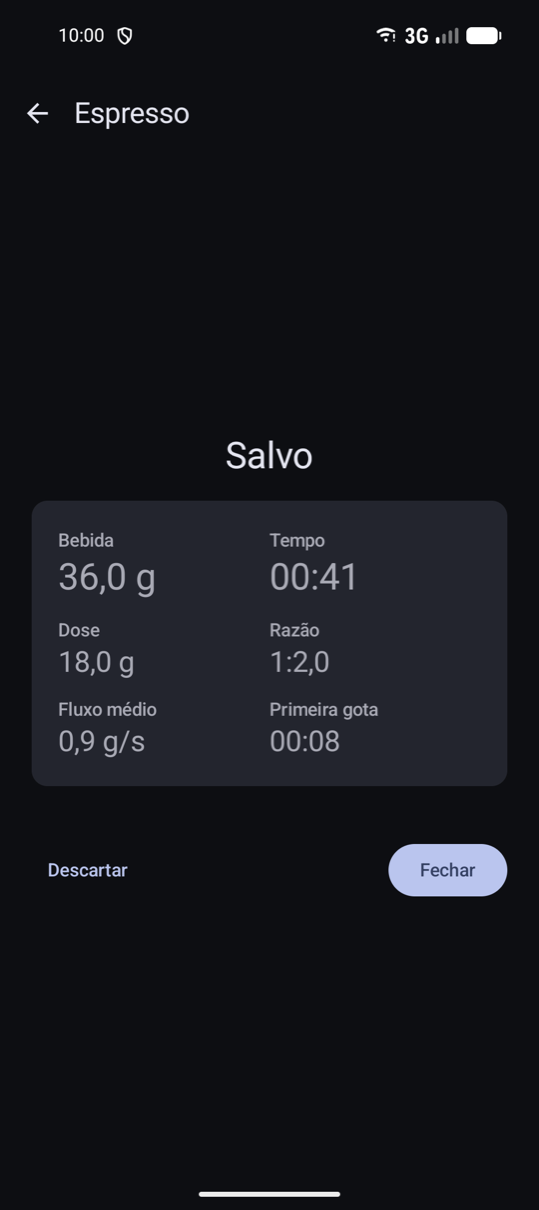
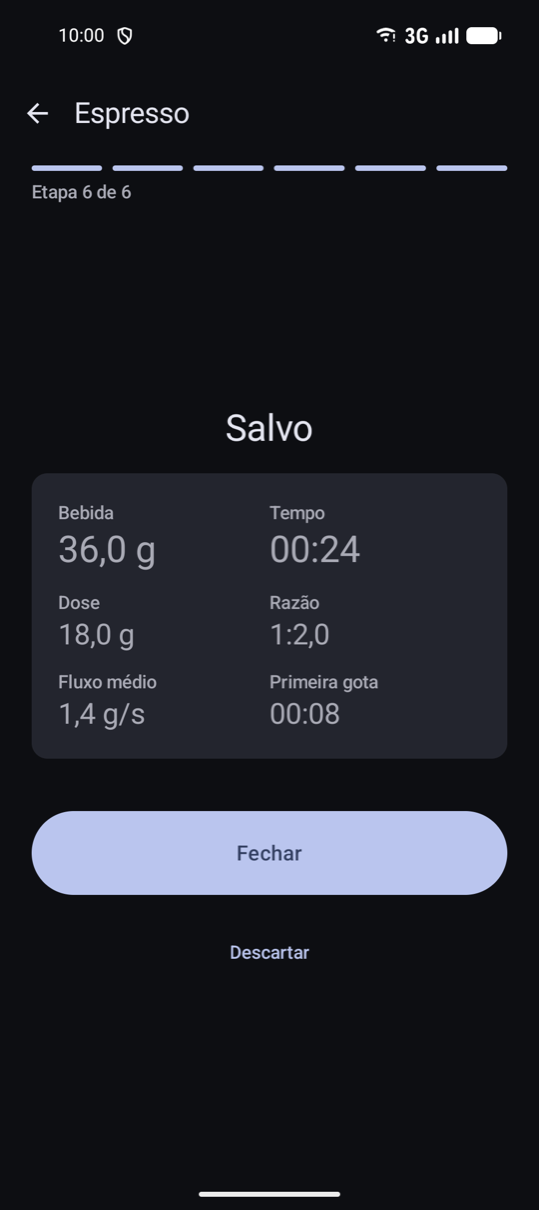
Brew screen: guide one step at a time with animations and bigger buttons
A step indicator like the onboarding's, each step's instruction sliding in with a small looping picture (cup coming
down, tare LED, drops or stream), full-width 64 dp buttons on the brew screen and taller mode buttons on Home.

diff --git a/app/src/main/java/io/github/mateuxlucax/caparao/ui/brew/BrewGuide.kt b/app/src/main/java/io/github/mateuxlucax/caparao/ui/brew/BrewGuide.kt
@@ -1,0 +1,186 @@
+package io.github.mateuxlucax.caparao.ui.brew
+
+import android.provider.Settings
+import androidx.annotation.StringRes
+import androidx.compose.animation.AnimatedContent
+import androidx.compose.animation.animateColorAsState
+import androidx.compose.animation.core.LinearEasing
+import androidx.compose.animation.core.animateFloat
+import androidx.compose.animation.core.infiniteRepeatable
+import androidx.compose.animation.core.rememberInfiniteTransition
+import androidx.compose.animation.core.tween
+import androidx.compose.animation.fadeIn
+import androidx.compose.animation.fadeOut
+import androidx.compose.animation.slideInHorizontally
+import androidx.compose.animation.slideOutHorizontally
+import androidx.compose.animation.togetherWith
+import androidx.compose.foundation.Canvas
+import androidx.compose.foundation.background
+import androidx.compose.foundation.layout.Arrangement
+import androidx.compose.foundation.layout.Box
+import androidx.compose.foundation.layout.Column
+import androidx.compose.foundation.layout.Row
+import androidx.compose.foundation.layout.fillMaxWidth
+import androidx.compose.foundation.layout.height
+import androidx.compose.foundation.layout.size
+import androidx.compose.foundation.shape.CircleShape
+import androidx.compose.material3.MaterialTheme
+import androidx.compose.material3.Text
+import androidx.compose.runtime.Composable
+import androidx.compose.runtime.getValue
+import androidx.compose.runtime.remember
+import androidx.compose.ui.Alignment
+import androidx.compose.ui.Modifier
+import androidx.compose.ui.draw.clip
+import androidx.compose.ui.geometry.CornerRadius
+import androidx.compose.ui.geometry.Offset
+import androidx.compose.ui.geometry.Size
+import androidx.compose.ui.graphics.Path
+import androidx.compose.ui.graphics.drawscope.DrawScope
+import androidx.compose.ui.graphics.drawscope.Stroke
+import androidx.compose.ui.graphics.drawscope.scale
+import androidx.compose.ui.platform.LocalContext
+import androidx.compose.ui.res.stringResource
+import androidx.compose.ui.text.style.TextAlign
+import androidx.compose.ui.unit.dp
+import io.github.mateuxlucax.caparao.R
+import io.github.mateuxlucax.caparao.brew.BrewPhase
+import io.github.mateuxlucax.caparao.model.BrewMode
+import kotlin.math.PI
+import kotlin.math.sin
+
+/** The steps the brew screen walks through, one at a time like the onboarding. */
+enum class GuideStage(@StringRes val title: Int, @StringRes val text: Int?) {
+    DOSE(R.string.dose_title, R.string.dose_text),
+    CUP(R.string.espresso_place_cup, R.string.espresso_place_cup_text),
+    TARE(R.string.taring, R.string.taring_text),
+    FIRST_DROP(R.string.espresso_ready, R.string.espresso_ready_text),
+    POUR(R.string.filter_ready, R.string.filter_ready_text),
+    BREWING_ESPRESSO(R.string.brewing_espresso, R.string.brewing_espresso_text),
+    BREWING_FILTER(R.string.brewing_filter, R.string.brewing_filter_text),
+    DONE(R.string.brew_saved, null),
+}
+
+/** The stages of [mode], in order. */
+fun guideStages(mode: BrewMode): List<GuideStage> = when (mode) {
+    BrewMode.ESPRESSO -> listOf(GuideStage.DOSE, GuideStage.CUP, GuideStage.TARE, GuideStage.FIRST_DROP, GuideStage.BREWING_ESPRESSO, GuideStage.DONE)
+    BrewMode.FILTER -> listOf(GuideStage.DOSE, GuideStage.TARE, GuideStage.POUR, GuideStage.BREWING_FILTER, GuideStage.DONE)
+}
+
+/** Where the screen stands, from its step and the detector's phase. */
+fun guideStage(mode: BrewMode, step: BrewStep, phase: BrewPhase): GuideStage = when (step) {
+    BrewStep.DOSE -> GuideStage.DOSE
+    BrewStep.SUMMARY -> GuideStage.DONE
+    BrewStep.LIVE -> when (phase) {
+        BrewPhase.WAITING_FOR_CUP -> GuideStage.CUP
+        BrewPhase.TARING -> GuideStage.TARE
+        BrewPhase.READY -> if (mode == BrewMode.ESPRESSO) GuideStage.FIRST_DROP else GuideStage.POUR
+        BrewPhase.BREWING, BrewPhase.DONE -> if (mode == BrewMode.ESPRESSO) GuideStage.BREWING_ESPRESSO else GuideStage.BREWING_FILTER
+    }
+}
+
+/** One segment per stage, the done and current ones filled, with "Step x of y" under it. */
+@Composable
+fun GuideIndicator(mode: BrewMode, stage: GuideStage, modifier: Modifier = Modifier) {
+    val stages = guideStages(mode)
+    val index = stages.indexOf(stage)
+    Column(modifier.fillMaxWidth(), verticalArrangement = Arrangement.spacedBy(6.dp)) {
+        Row(Modifier.fillMaxWidth(), horizontalArrangement = Arrangement.spacedBy(8.dp)) {
+            stages.forEachIndexed { i, _ ->
+                val color by animateColorAsState(
+                    if (i <= index) MaterialTheme.colorScheme.primary else MaterialTheme.colorScheme.surfaceContainerHighest,
+                    label = "stage",
+                )
+                Box(Modifier.weight(1f).height(4.dp).clip(CircleShape).background(color))
+            }
+        }
+        Text(
+            stringResource(R.string.step_of, index + 1, stages.size),
+            style = MaterialTheme.typography.labelLarge,
+            color = MaterialTheme.colorScheme.onSurfaceVariant,
+        )
+    }
+}
+
+/** The current stage's animation, title and instruction, sliding in from the side when the stage changes. */
+@Composable
+fun GuideHeader(stage: GuideStage, modifier: Modifier = Modifier) {
+    AnimatedContent(
+        stage,
+        modifier.fillMaxWidth(),
+        transitionSpec = {
+            val forward = targetState.ordinal > initialState.ordinal
+            (slideInHorizontally { if (forward) it / 3 else -it / 3 } + fadeIn()) togetherWith
+                (slideOutHorizontally { if (forward) -it / 3 else it / 3 } + fadeOut())
+        },
+        label = "stage",
+    ) { shown ->
+        Column(Modifier.fillMaxWidth(), horizontalAlignment = Alignment.CenterHorizontally, verticalArrangement = Arrangement.spacedBy(8.dp)) {
+            StageAnimation(shown)
+            Text(stringResource(shown.title), style = MaterialTheme.typography.headlineSmall, textAlign = TextAlign.Center)
+            shown.text?.let {
+                Text(stringResource(it), style = MaterialTheme.typography.bodyLarge, color = MaterialTheme.colorScheme.onSurfaceVariant, textAlign = TextAlign.Center)
+            }
+        }
+    }
+}
+
+private const val LOOP_MS = 2_400
+
+/**
+ * A small looping picture of what to do: the cup coming down onto the scale, the LED pulsing while it tares, drops or
+ * a stream falling into the cup. Nothing for the brewing stages, where the live readout is the picture. With animations
+ * off, a still frame.
+ */
+@Composable
+private fun StageAnimation(stage: GuideStage) {
+    if (stage == GuideStage.DOSE || stage == GuideStage.DONE || stage == GuideStage.BREWING_ESPRESSO || stage == GuideStage.BREWING_FILTER) return
+    val context = LocalContext.current
+    val still = remember { Settings.Global.getFloat(context.contentResolver, Settings.Global.ANIMATOR_DURATION_SCALE, 1f) == 0f }
+    val t = if (still) {
+        0.7f
+    } else {
+        val transition = rememberInfiniteTransition(label = "guide")
+        transition.animateFloat(0f, 1f, infiniteRepeatable(tween(LOOP_MS, easing = LinearEasing)), label = "t").value
+    }
+    val colors = MaterialTheme.colorScheme
+    Canvas(Modifier.size(112.dp)) {
+        // Drawn in a 120-unit square.
+        scale(size.width / 120f, pivot = Offset.Zero) {
+            val cupDrop = if (stage == GuideStage.CUP) (1f - (t / 0.5f).coerceIn(0f, 1f)).let { it * it } * 40f else 0f
+            drawCup(colors.onSurface, cupDrop)
+            drawRoundRect(colors.surfaceContainerHighest, Offset(18f, 95f), Size(84f, 11f), CornerRadius(5.5f))
+            drawRoundRect(colors.outlineVariant, Offset(18f, 95f), Size(84f, 11f), CornerRadius(5.5f), style = Stroke(1f))
+            val led = when (stage) {
+                GuideStage.TARE -> 0.35f + 0.65f * (0.5f + 0.5f * sin(2 * PI * t * 2).toFloat())
+                GuideStage.CUP -> if (t > 0.55f) 1f else 0.2f
+                else -> 1f
+            }
+            drawCircle(colors.primary.copy(alpha = led), radius = 2.5f, center = Offset(60f, 100.5f))
+            when (stage) {
+                GuideStage.FIRST_DROP -> for (i in 0..1) {
+                    val p = (t * 2 + i * 0.5f) % 1f
+                    drawCircle(colors.primary, radius = 2.5f, center = Offset(60f, 8f + p * 78f))
+                }
+                GuideStage.POUR -> {
+                    val wobble = 0.6f * sin(t * 2 * PI.toFloat() * 6)
+                    drawLine(colors.primary.copy(alpha = 0.9f), Offset(60f + wobble, 4f), Offset(60f, 86f), strokeWidth = 2f)
+                }
+                else -> Unit
+            }
+        }
+    }
+}
+
+private fun DrawScope.drawCup(color: androidx.compose.ui.graphics.Color, lift: Float) {
+    val bowl = Path().apply {
+        moveTo(39f, 55f - lift)
+        lineTo(81f, 55f - lift)
+        lineTo(77f, 82f - lift)
+        quadraticTo(75f, 93f - lift, 64f, 93f - lift)
+        lineTo(56f, 93f - lift)
+        quadraticTo(45f, 93f - lift, 43f, 82f - lift)
+        close()
+    }
+    drawPath(bowl, color, style = Stroke(width = 2f))
+}

diff --git a/app/src/main/java/io/github/mateuxlucax/caparao/ui/brew/BrewScreen.kt b/app/src/main/java/io/github/mateuxlucax/caparao/ui/brew/BrewScreen.kt
@@ -81,11 +81,14 @@ fun BrewScreen(viewModel: BrewViewModel, onClose: () -> Unit) {
             )
         },
     ) { padding ->
-        AnimatedContent(state.step, Modifier.padding(padding).fillMaxSize(), transitionSpec = { fadeIn() togetherWith fadeOut() }, label = "step") { step ->
-            when (step) {
-                BrewStep.DOSE -> DoseStep(state, viewModel::setDose)
-                BrewStep.LIVE -> LiveStep(state, viewModel)
-                BrewStep.SUMMARY -> SummaryStep(state, onDiscard = { viewModel.discard(); onClose() }, onClose = onClose)
+        Column(Modifier.padding(padding).fillMaxSize()) {
+            GuideIndicator(state.mode, guideStage(state.mode, state.step, state.phase), Modifier.padding(horizontal = 24.dp, vertical = 8.dp))
+            AnimatedContent(state.step, Modifier.weight(1f).fillMaxWidth(), transitionSpec = { fadeIn() togetherWith fadeOut() }, label = "step") { step ->
+                when (step) {
+                    BrewStep.DOSE -> DoseStep(state, viewModel::setDose)
+                    BrewStep.LIVE -> LiveStep(state, viewModel)
+                    BrewStep.SUMMARY -> SummaryStep(state, onDiscard = { viewModel.discard(); onClose() }, onClose = onClose)
+                }
             }
         }
     }
@@ -101,14 +104,13 @@ private fun DoseStep(state: BrewUiState, onDose: (Double) -> Unit) {
         verticalArrangement = Arrangement.spacedBy(16.dp, Alignment.CenterVertically),
         horizontalAlignment = Alignment.CenterHorizontally,
     ) {
-        Text(stringResource(R.string.dose_title), style = MaterialTheme.typography.headlineMedium)
-        Text(stringResource(R.string.dose_text), style = MaterialTheme.typography.bodyLarge, color = MaterialTheme.colorScheme.onSurfaceVariant, textAlign = TextAlign.Center)
+        GuideHeader(GuideStage.DOSE)
         Text(
             "${Format.grams(state.weightGrams, locale)} ${stringResource(R.string.unit_grams)}",
             style = MaterialTheme.typography.displayMedium.merge(Tabular),
             color = if (state.connected) MaterialTheme.colorScheme.onSurface else MaterialTheme.colorScheme.onSurfaceVariant,
         )
-        FilledTonalButton(onClick = { text = Format.grams(state.weightGrams, locale) }, enabled = state.connected && state.weightGrams > 0) {
+        FilledTonalButton(onClick = { text = Format.grams(state.weightGrams, locale) }, Modifier.fillMaxWidth().height(56.dp), enabled = state.connected && state.weightGrams > 0) {
             Text(stringResource(R.string.use_weight))
         }
         OutlinedTextField(
@@ -120,8 +122,8 @@ private fun DoseStep(state: BrewUiState, onDose: (Double) -> Unit) {
             textStyle = MaterialTheme.typography.headlineSmall.merge(Tabular),
         )
         Spacer(Modifier.height(8.dp))
-        Button(onClick = { typed?.let(onDose) }, Modifier.fillMaxWidth().height(52.dp), enabled = typed != null) {
-            Text(stringResource(R.string.next))
+        Button(onClick = { typed?.let(onDose) }, Modifier.fillMaxWidth().height(64.dp), enabled = typed != null) {
+            Text(stringResource(R.string.next), style = MaterialTheme.typography.titleMedium)
         }
     }
 }
@@ -135,14 +137,7 @@ private fun LiveStep(state: BrewUiState, viewModel: BrewViewModel) {
         horizontalAlignment = Alignment.CenterHorizontally,
         verticalArrangement = Arrangement.spacedBy(12.dp),
     ) {
-        Text(
-            stringResource(phaseTitle(state.mode, state.phase)),
-            style = MaterialTheme.typography.headlineSmall,
-            textAlign = TextAlign.Center,
-        )
-        phaseText(state.mode, state.phase)?.let {
-            Text(stringResource(it), style = MaterialTheme.typography.bodyLarge, color = MaterialTheme.colorScheme.onSurfaceVariant, textAlign = TextAlign.Center)
-        }
+        GuideHeader(guideStage(state.mode, state.step, state.phase))
         if (!state.connected) {
             Text(stringResource(R.string.scale_needed), color = MaterialTheme.colorScheme.error, textAlign = TextAlign.Center)
         }
@@ -163,11 +158,13 @@ private fun LiveStep(state: BrewUiState, viewModel: BrewViewModel) {
             )
         }
         when (state.phase) {
-            BrewPhase.WAITING_FOR_CUP -> OutlinedButton(onClick = viewModel::armNow, enabled = state.connected) { Text(stringResource(R.string.cup_already_tared)) }
-            BrewPhase.BREWING -> Button(onClick = viewModel::stop, Modifier.fillMaxWidth().height(56.dp)) {
-                Text(stringResource(if (state.mode == BrewMode.ESPRESSO) R.string.stop else R.string.done))
+            BrewPhase.WAITING_FOR_CUP -> OutlinedButton(onClick = viewModel::armNow, Modifier.fillMaxWidth().height(64.dp), enabled = state.connected) {
+                Text(stringResource(R.string.cup_already_tared), style = MaterialTheme.typography.titleMedium)
             }
-            else -> Spacer(Modifier.height(56.dp))
+            BrewPhase.BREWING -> Button(onClick = viewModel::stop, Modifier.fillMaxWidth().height(64.dp)) {
+                Text(stringResource(if (state.mode == BrewMode.ESPRESSO) R.string.stop else R.string.done), style = MaterialTheme.typography.titleMedium)
+            }
+            else -> Spacer(Modifier.height(64.dp))
         }
     }
 }
@@ -182,7 +179,7 @@ private fun SummaryStep(state: BrewUiState, onDiscard: () -> Unit, onClose: () -
     ) {
         if (brew == null) {
             Text(stringResource(R.string.nothing_recorded), style = MaterialTheme.typography.headlineSmall)
-            Button(onClick = onClose) { Text(stringResource(R.string.close)) }
+            Button(onClick = onClose, Modifier.fillMaxWidth().height(64.dp)) { Text(stringResource(R.string.close), style = MaterialTheme.typography.titleMedium) }
             return@Column
         }
         Text(stringResource(R.string.brew_saved), style = MaterialTheme.typography.headlineMedium)
@@ -191,10 +188,8 @@ private fun SummaryStep(state: BrewUiState, onDiscard: () -> Unit, onClose: () -
         }
         BrewNumbers(brew)
         Spacer(Modifier.height(8.dp))
-        Row(Modifier.fillMaxWidth(), horizontalArrangement = Arrangement.SpaceBetween) {
-            TextButton(onClick = onDiscard) { Text(stringResource(R.string.discard)) }
-            Button(onClick = onClose) { Text(stringResource(R.string.close)) }
-        }
+        Button(onClick = onClose, Modifier.fillMaxWidth().height(64.dp)) { Text(stringResource(R.string.close), style = MaterialTheme.typography.titleMedium) }
+        TextButton(onClick = onDiscard, Modifier.fillMaxWidth().height(56.dp)) { Text(stringResource(R.string.discard)) }
     }
 }
 
@@ -239,17 +234,3 @@ private fun Metric(label: String, value: String, modifier: Modifier = Modifier, 
         Text(value, style = (if (large) MaterialTheme.typography.headlineMedium else MaterialTheme.typography.titleLarge).merge(Tabular))
     }
 }
-
-private fun phaseTitle(mode: BrewMode, phase: BrewPhase) = when (phase) {
-    BrewPhase.WAITING_FOR_CUP -> R.string.espresso_place_cup
-    BrewPhase.TARING -> R.string.taring
-    BrewPhase.READY -> if (mode == BrewMode.ESPRESSO) R.string.espresso_ready else R.string.filter_ready
-    BrewPhase.BREWING, BrewPhase.DONE -> if (mode == BrewMode.ESPRESSO) R.string.brewing_espresso else R.string.brewing_filter
-}
-
-private fun phaseText(mode: BrewMode, phase: BrewPhase) = when (phase) {
-    BrewPhase.WAITING_FOR_CUP -> R.string.espresso_place_cup_text
-    BrewPhase.READY -> if (mode == BrewMode.ESPRESSO) R.string.espresso_ready_text else R.string.filter_ready_text
-    else -> null
-}
-

diff --git a/app/src/main/java/io/github/mateuxlucax/caparao/ui/home/HomeScreen.kt b/app/src/main/java/io/github/mateuxlucax/caparao/ui/home/HomeScreen.kt
@@ -112,11 +112,11 @@ private fun RoundAction(@DrawableRes icon: Int, label: String, size: Dp, enabled
 
 @Composable
 private fun ModeButton(mode: BrewMode, enabled: Boolean, modifier: Modifier, onClick: () -> Unit) {
-    ElevatedCard(onClick = onClick, enabled = enabled, modifier = modifier.height(96.dp)) {
+    ElevatedCard(onClick = onClick, enabled = enabled, modifier = modifier.height(112.dp)) {
         Column(Modifier.fillMaxSize(), verticalArrangement = Arrangement.Center, horizontalAlignment = Alignment.CenterHorizontally) {
-            Icon(painterResource(mode.icon), contentDescription = null, Modifier.size(28.dp))
+            Icon(painterResource(mode.icon), contentDescription = null, Modifier.size(36.dp))
             Spacer(Modifier.height(6.dp))
-            Text(stringResource(mode.label), style = MaterialTheme.typography.titleMedium)
+            Text(stringResource(mode.label), style = MaterialTheme.typography.titleLarge)
         }
     }
 }
